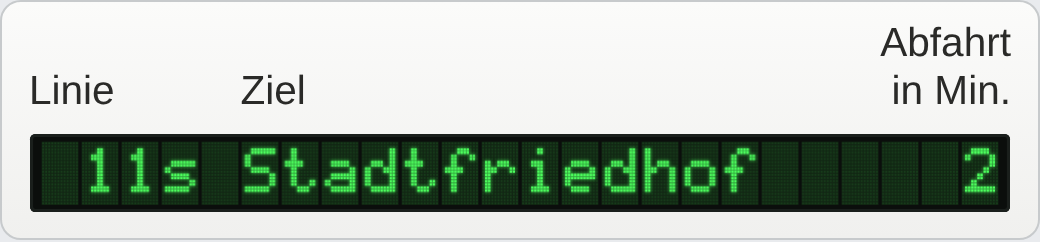
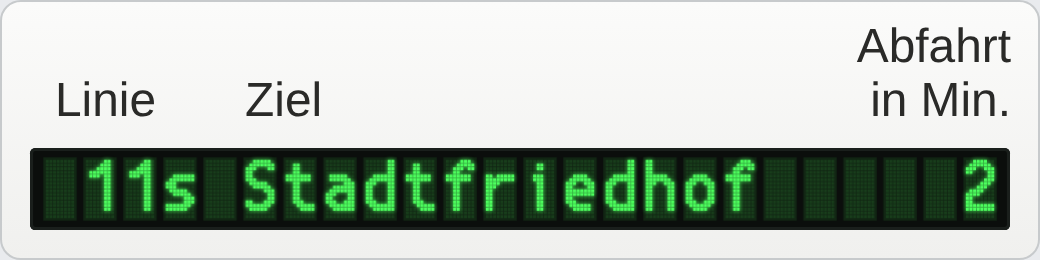
v2.1: Haltestellen-Säule mit 8x16-LED-Schrift wie am Original
- Jedes Feld 8 x 16 LED-Plättchen (statt 12 x 20 mit 5x7-Schrift)
- Neue LED-Schrift nach Foto der echten Anzeige: Striche 2 Plättchen dick,
  weiche Schrägen, Großbuchstaben/Ziffern 14 Plättchen hoch, Unterlängen
- 94 Zeichen inkl. Ä Ö Ü ß und / * ( ) & ? % ' " = < > | _ ; # @ °
- Durchstreichen bei Ausfall auf Zeichenmitte angepasst
- Bilder in der Beschreibung neu erstellt

Claude-Session: https://claude.ai/code/session_01UGasuBwGSLjhjSTvDMnsjH

diff --git a/custom_components/linz_ag_monitor/frontend/linz-linien-combined.js b/custom_components/linz_ag_monitor/frontend/linz-linien-combined.js
@@ -53,117 +53,118 @@ const LINZ_ASSET_BASE = (() => {
 
 // LED-Raster der Haltestellen-Säule: 24 Zeichen, Zeichenfeld 10 x 16 Punkte, Glyphe 8 x 14 Punkte
 const STELE_COLS = 24;
-const STELE_DOT = 2;                  // 1 Schrift-Punkt = 2 x 2 LED-Punkte ("doppelte Punkte")
-const STELE_PIX_W = 12;               // ein Kästchen hat 12 x 20 Pixel (wie an der echten Anzeige)
-const STELE_PIX_H = 20;
-const STELE_CELL_GAP = 1;             // dunkle Fuge zwischen den Kästchen (in Pixeln)
+const STELE_PIX_W = 8;                // ein Feld hat 8 x 16 LED-Plättchen (wie an der echten Anzeige)
+const STELE_PIX_H = 16;
+const STELE_CELL_GAP = 3;             // dunkle Fuge zwischen den Feldern (in Plättchen)
 const STELE_CELL_W = STELE_PIX_W + STELE_CELL_GAP;
 const STELE_CELL_H = STELE_PIX_H + STELE_CELL_GAP;
-const STELE_GLYPH_X = 1;              // Schrift (5x8 x 2 = 10 x 16 Pixel) im Kästchen: 1 Pixel Rand links
-const STELE_GLYPH_Y = 2;              // 2 Pixel Rand oben
+const STELE_PANEL = 0.6;              // das Feld ist etwas größer als die Plättchen-Matrix
+const STELE_STRIKE_ROW = 7;           // Durchstreichen: Zeile 7-8 (Höhe der Zeichenmitte)
 const STELE_MIN_W = 3;                // Abfahrtsminuten: Feld 22-24
-const STELE_DOT_ASPECT = 1;           // 1 = quadratische LED-Punkte (größer = höhere, schlankere Zeichen)
+const STELE_DOT_ASPECT = 1;           // 1 = quadratische LED-Plättchen
 // Aussehen der LED-Anzeige:
-//   mode     "full" = jeder Schrift-Punkt als 2x2 feine Punkte, "thinH" = waagrechte Striche 1 Punkt,
-//            "led" = ein großes LED pro Schrift-Punkt
-//   fill     Größe der leuchtenden Punkte (0-1, kleiner = mehr Abstand)
-//   grid     Helligkeit der unbeleuchteten Pixel im Hintergrund (0 = aus)
-//   gridMode Raster im Hintergrund ("led" = ein großes Feld pro Schrift-Punkt, sonst wie mode)
-//   gridFill Größe der Hintergrund-Pixel
+//   fill     Größe der leuchtenden Plättchen (0-1, kleiner = mehr Abstand)
+//   grid     Helligkeit der unbeleuchteten Plättchen (0 = aus)
+//   gridFill Größe der unbeleuchteten Plättchen
 //   glow     Stärke des Leuchtens um die Schrift
-const STELE_LOOK = { mode: "full", fill: 0.76, grid: 0.11, gridMode: "full", gridFill: 0.60, glow: 1.2 };
-// 5x8-LED-Schrift wie an der echten Anzeige (Zeile 0-6 Zeichen, Zeile 7 Unterlänge).
-// Jede Zeile = 5 Bits (links = höchstes Bit). Jeder Schrift-Punkt wird als 2x2 feine LED-Punkte gezeichnet.
+const STELE_LOOK = { fill: 0.80, grid: 0.11, gridFill: 0.80, glow: 1.2 };
+// 8x16-LED-Schrift wie an der echten Anzeige: 16 Zeilen je Zeichen, jede Zeile = 8 Bits (links = höchstes Bit).
+// Striche 2 Pixel dick, Schrägen in Einzelschritten; Großbuchstaben/Ziffern 14 Zeilen hoch, Zeile 14-15 Unterlänge.
 const STELE_FONT = {
-  "0": [14,17,19,21,25,17,14,0],
-  "1": [4,12,4,4,4,4,14,0],
-  "2": [14,17,1,2,4,8,31,0],
-  "3": [31,2,4,2,1,17,14,0],
-  "4": [2,6,10,18,31,2,2,0],
-  "5": [31,16,30,1,1,17,14,0],
-  "6": [6,8,16,30,17,17,14,0],
-  "7": [31,1,2,4,8,8,8,0],
-  "8": [14,17,17,14,17,17,14,0],
-  "9": [14,17,17,15,1,2,12,0],
-  "A": [14,17,17,17,31,17,17,0],
-  "B": [30,17,17,30,17,17,30,0],
-  "C": [14,17,16,16,16,17,14,0],
-  "D": [28,18,17,17,17,18,28,0],
-  "E": [31,16,16,30,16,16,31,0],
-  "F": [31,16,16,30,16,16,16,0],
-  "G": [14,17,16,23,17,17,15,0],
-  "H": [17,17,17,31,17,17,17,0],
-  "I": [14,4,4,4,4,4,14,0],
-  "J": [7,2,2,2,2,18,12,0],
-  "K": [17,18,20,24,20,18,17,0],
-  "L": [16,16,16,16,16,16,31,0],
-  "M": [17,27,21,21,17,17,17,0],
-  "N": [17,17,25,21,19,17,17,0],
-  "O": [14,17,17,17,17,17,14,0],
-  "P": [30,17,17,30,16,16,16,0],
-  "Q": [14,17,17,17,21,18,13,0],
-  "R": [30,17,17,30,20,18,17,0],
-  "S": [15,16,16,14,1,1,30,0],
-  "T": [31,4,4,4,4,4,4,0],
-  "U": [17,17,17,17,17,17,14,0],
-  "V": [17,17,17,17,17,10,4,0],
-  "W": [17,17,17,21,21,21,10,0],
-  "X": [17,17,10,4,10,17,17,0],
-  "Y": [17,17,10,4,4,4,4,0],
-  "Z": [31,1,2,4,8,16,31,0],
-  "Ä": [10,0,14,17,31,17,17,0],
-  "Ö": [10,0,14,17,17,17,14,0],
-  "Ü": [10,0,17,17,17,17,14,0],
-  "a": [0,0,14,1,15,17,15,0],
-  "b": [16,16,22,25,17,17,30,0],
-  "c": [0,0,14,16,16,17,14,0],
-  "d": [1,1,13,19,17,17,15,0],
-  "e": [0,0,14,17,31,16,14,0],
-  "f": [6,9,8,28,8,8,8,0],
-  "g": [0,0,15,17,17,15,1,14],
-  "h": [16,16,22,25,17,17,17,0],
-  "i": [4,0,12,4,4,4,14,0],
-  "j": [2,0,6,2,2,2,18,12],
-  "k": [16,16,18,20,24,20,18,0],
-  "l": [12,4,4,4,4,4,14,0],
-  "m": [0,0,26,21,21,21,21,0],
-  "n": [0,0,22,25,17,17,17,0],
-  "o": [0,0,14,17,17,17,14,0],
-  "p": [0,0,30,17,17,30,16,16],
-  "q": [0,0,15,17,17,15,1,1],
-  "r": [0,0,22,25,16,16,16,0],
-  "s": [0,0,15,16,14,1,30,0],
-  "t": [8,8,28,8,8,9,6,0],
-  "u": [0,0,17,17,17,19,13,0],
-  "v": [0,0,17,17,17,10,4,0],
-  "w": [0,0,17,17,21,21,10,0],
-  "x": [0,0,17,10,4,10,17,0],
-  "y": [0,0,17,17,17,15,1,14],
-  "z": [0,0,31,2,4,8,31,0],
-  "ä": [10,0,14,1,15,17,15,0],
-  "ö": [10,0,14,17,17,17,14,0],
-  "ü": [10,0,17,17,17,19,13,0],
-  "ß": [12,18,18,20,18,17,22,0],
-  ".": [0,0,0,0,0,12,12,0],
-  ",": [0,0,0,0,0,12,4,8],
-  "-": [0,0,0,31,0,0,0,0],
-  "+": [0,4,4,31,4,4,0,0],
-  "*": [0,4,21,14,21,4,0,0],
-  "/": [1,2,2,4,8,8,16,0],
-  ":": [0,12,12,0,12,12,0,0],
-  "(": [2,4,8,8,8,4,2,0],
-  ")": [8,4,2,2,2,4,8,0],
-  "&": [12,18,20,8,21,18,13,0],
-  "'": [4,4,8,0,0,0,0,0],
-  "\"": [10,10,0,0,0,0,0,0],
-  "!": [4,4,4,4,4,0,4,0],
-  "?": [14,17,1,2,4,0,4,0],
-  "|": [4,4,4,4,4,4,4,0],
-  "<": [2,4,8,16,8,4,2,0],
-  ">": [8,4,2,1,2,4,8,0],
-  "=": [0,0,31,0,31,0,0,0],
-  "%": [24,25,2,4,8,19,3,0],
-  "■": [0,0,14,14,14,0,0,0],     // kleiner gefüllter Block (blinkt bei Abfahrt "jetzt")
+  "0": [60,126,231,195,195,195,195,195,195,195,195,231,126,60,0,0],
+  "1": [6,14,30,126,118,6,6,6,6,6,6,6,6,6,0,0],
+  "2": [60,126,231,195,3,7,14,28,120,240,192,192,255,255,0,0],
+  "3": [60,126,231,195,3,7,62,62,7,3,195,231,126,60,0,0],
+  "4": [6,14,14,30,62,54,118,102,255,255,6,6,6,6,0,0],
+  "5": [255,255,192,192,192,252,254,7,3,3,195,231,126,60,0,0],
+  "6": [30,62,112,224,192,192,252,254,199,195,195,231,126,60,0,0],
+  "7": [255,255,3,7,6,14,28,24,56,48,48,48,48,48,0,0],
+  "8": [60,126,231,195,195,231,126,126,231,195,195,231,126,60,0,0],
+  "9": [60,126,231,195,195,227,127,63,3,3,7,14,124,120,0,0],
+  "A": [24,60,126,231,195,195,195,255,255,195,195,195,195,195,0,0],
+  "B": [252,254,199,195,195,199,254,254,199,195,195,199,254,252,0,0],
+  "C": [62,127,227,192,192,192,192,192,192,192,192,227,127,62,0,0],
+  "D": [248,252,206,199,195,195,195,195,195,195,199,206,252,248,0,0],
+  "E": [255,255,192,192,192,192,254,254,192,192,192,192,255,255,0,0],
+  "F": [255,255,192,192,192,192,254,254,192,192,192,192,192,192,0,0],
+  "G": [62,127,227,192,192,192,192,223,223,195,195,227,127,63,0,0],
+  "H": [195,195,195,195,195,195,255,255,195,195,195,195,195,195,0,0],
+  "I": [126,126,24,24,24,24,24,24,24,24,24,24,126,126,0,0],
+  "J": [63,63,3,3,3,3,3,3,3,3,195,231,126,60,0,0],
+  "K": [195,199,206,220,216,248,240,240,248,220,204,206,199,195,0,0],
+  "L": [192,192,192,192,192,192,192,192,192,192,192,192,255,255,0,0],
+  "M": [231,255,255,255,219,219,219,219,219,195,195,195,195,195,0,0],
+  "N": [195,227,227,243,243,251,219,223,207,207,199,199,195,195,0,0],
+  "O": [60,126,231,195,195,195,195,195,195,195,195,231,126,60,0,0],
+  "P": [252,254,199,195,195,199,254,252,192,192,192,192,192,192,0,0],
+  "Q": [60,126,231,195,195,195,195,195,195,219,223,239,127,63,0,0],
+  "R": [252,254,199,195,195,199,254,252,206,199,195,195,195,195,0,0],
+  "S": [62,127,227,192,192,224,124,62,7,3,3,199,254,124,0,0],
+  "T": [255,255,24,24,24,24,24,24,24,24,24,24,24,24,0,0],
+  "U": [195,195,195,195,195,195,195,195,195,195,195,231,126,60,0,0],
+  "V": [195,195,195,195,195,195,195,227,103,118,62,60,28,24,0,0],
+  "W": [195,195,195,195,195,219,219,219,219,219,255,255,255,231,0,0],
+  "X": [195,195,195,231,126,60,60,60,126,102,231,195,195,195,0,0],
+  "Y": [195,195,195,195,231,126,60,24,24,24,24,24,24,24,0,0],
+  "Z": [255,255,3,7,14,12,28,56,112,96,224,192,255,255,0,0],
+  "Ä": [102,102,0,60,126,231,195,195,255,255,195,195,195,195,0,0],
+  "Ö": [102,102,0,60,126,231,195,195,195,195,195,231,126,60,0,0],
+  "Ü": [102,102,0,195,195,195,195,195,195,195,195,231,126,60,0,0],
+  "a": [0,0,0,0,124,126,7,63,127,227,195,231,127,63,0,0],
+  "b": [192,192,192,192,252,254,199,195,195,195,195,199,254,252,0,0],
+  "c": [0,0,0,0,63,127,224,192,192,192,192,224,127,63,0,0],
+  "d": [3,3,3,3,63,127,227,195,195,195,195,227,127,63,0,0],
+  "e": [0,0,0,0,60,126,231,195,255,255,192,224,126,62,0,0],
+  "f": [14,31,59,48,254,254,48,48,48,48,48,48,48,48,0,0],
+  "g": [0,0,0,0,63,127,227,195,195,195,227,127,63,3,255,254],
+  "h": [192,192,192,192,252,254,231,195,195,195,195,195,195,195,0,0],
+  "i": [0,24,24,0,56,56,24,24,24,24,24,24,24,24,0,0],
+  "j": [0,12,12,0,28,28,12,12,12,12,12,12,12,12,252,248],
+  "k": [192,192,192,192,199,207,220,248,240,248,220,206,199,195,0,0],
+  "l": [56,56,24,24,24,24,24,24,24,24,24,24,24,24,0,0],
+  "m": [0,0,0,0,254,255,219,219,219,219,219,219,219,219,0,0],
+  "n": [0,0,0,0,252,254,231,195,195,195,195,195,195,195,0,0],
+  "o": [0,0,0,0,60,126,231,195,195,195,195,231,126,60,0,0],
+  "p": [0,0,0,0,252,254,199,195,195,195,199,254,252,192,192,192],
+  "q": [0,0,0,0,63,127,227,195,195,195,227,127,63,3,3,3],
+  "r": [0,0,0,0,223,255,240,224,192,192,192,192,192,192,0,0],
+  "s": [0,0,0,0,63,127,224,224,124,62,7,7,254,252,0,0],
+  "t": [0,48,48,48,254,254,48,48,48,48,48,56,31,15,0,0],
+  "u": [0,0,0,0,195,195,195,195,195,195,195,231,127,63,0,0],
+  "v": [0,0,0,0,195,195,195,195,231,102,126,60,60,24,0,0],
+  "w": [0,0,0,0,195,195,195,219,219,219,219,255,127,126,0,0],
+  "x": [0,0,0,0,195,231,126,60,60,60,126,102,231,195,0,0],
+  "y": [0,0,0,0,195,195,195,195,195,195,227,127,63,3,255,254],
+  "z": [0,0,0,0,255,255,7,14,28,56,112,224,255,255,0,0],
+  "ä": [0,102,102,0,124,126,7,63,127,227,195,231,127,63,0,0],
+  "ö": [0,102,102,0,60,126,231,195,195,195,195,231,126,60,0,0],
+  "ü": [0,102,102,0,195,195,195,195,195,195,195,231,127,63,0,0],
+  "ß": [60,126,231,195,199,222,222,199,195,195,195,199,254,252,0,0],
+  ".": [0,0,0,0,0,0,0,0,0,0,0,0,24,24,0,0],
+  ",": [0,0,0,0,0,0,0,0,0,0,0,0,24,56,48,48],
+  "-": [0,0,0,0,0,0,126,126,0,0,0,0,0,0,0,0],
+  "+": [0,0,0,24,24,24,255,255,24,24,24,0,0,0,0,0],
+  "*": [0,0,24,219,255,126,60,126,255,219,24,0,0,0,0,0],
+  "/": [3,7,6,14,12,28,24,56,48,112,96,224,192,192,0,0],
+  ":": [0,0,0,24,24,0,0,0,0,0,24,24,0,0,0,0],
+  "(": [14,30,56,48,48,48,48,48,48,48,48,56,30,14,0,0],
+  ")": [112,120,28,12,12,12,12,12,12,12,12,28,120,112,0,0],
+  "&": [56,60,124,108,124,120,112,112,251,223,206,238,127,59,0,0],
+  "'": [24,24,24,24,24,0,0,0,0,0,0,0,0,0,0,0],
+  "!": [24,24,24,24,24,24,24,24,24,24,0,0,24,24,0,0],
+  "?": [60,126,231,195,3,7,14,28,24,24,0,0,24,24,0,0],
+  "|": [24,24,24,24,24,24,24,24,24,24,24,24,24,24,24,24],
+  "<": [0,0,6,14,28,56,112,112,56,28,14,6,0,0,0,0],
+  ">": [0,0,96,112,56,28,14,14,28,56,112,96,0,0,0,0],
+  "=": [0,0,0,0,255,255,0,0,255,255,0,0,0,0,0,0],
+  "%": [227,231,230,238,12,28,24,56,48,112,103,231,199,199,0,0],
+  "_": [0,0,0,0,0,0,0,0,0,0,0,0,0,0,255,255],
+  ";": [0,0,0,24,24,0,0,0,0,0,24,24,56,48,48,48],
+  "#": [0,60,60,60,255,255,60,60,255,255,60,60,60,0,0,0],
+  "@": [60,126,231,195,195,255,255,255,255,222,192,224,126,62,0,0],
+  "°": [60,60,60,60,0,0,0,0,0,0,0,0,0,0,0,0],
+  "\"": [102,102,102,102,102,0,0,0,0,0,0,0,0,0,0,0],
+  "■": [0,0,0,0,0,126,126,126,126,126,126,0,0,0,0,0],
 };
 
 // Kurznamen nur für die Haltestellen-Anzeige (DFI) – die anderen Designs schreiben aus
@@ -1417,7 +1418,7 @@ class LinzMonitorCombined extends HTMLElement {
             box-shadow: inset 0 0 0 0.3cqw #1a1f1c;
             padding: 0.6cqw 1.2%; box-sizing: border-box; line-height: 0;
           }
-          /* 24 Kästchen à 12 x 20 Pixel (+ Fuge) */
+          /* 24 Felder à 8 x 16 LED-Plättchen (+ Fuge) */
           .st-row canvas { display: block; width: 100%; aspect-ratio: ${(STELE_COLS * STELE_CELL_W) / (STELE_CELL_H * STELE_DOT_ASPECT)} / 1; }
 
           /* --- Fußbereich --- */
@@ -1615,9 +1616,10 @@ class LinzMonitorCombined extends HTMLElement {
     });
   }
 
-  /* Eine LED-Zeile zeichnen: 24 Zeichenfelder, 5x7-LED-Schrift, jeder Schrift-Punkt = 2x2 LED-Punkte */
+  /* Eine LED-Zeile zeichnen: 24 Felder mit je 8 x 16 LED-Plättchen, 8x16-LED-Schrift */
   _drawSteleRow(cv, text, LED, strike = []) {
-    const PX = STELE_CELL_W, PY = STELE_CELL_H, W = STELE_COLS * PX, H = PY, D = STELE_DOT;
+    const PX = STELE_CELL_W, PY = STELE_CELL_H, W = STELE_COLS * PX, H = PY;
+    const OX = STELE_CELL_GAP / 2, OY = STELE_CELL_GAP / 2;   // Plättchen-Matrix im Feld
 
     const m = /^#?([0-9a-f]{6})$/i.exec(String(LED).trim());
     let cellColor = "#132016";
@@ -1632,38 +1634,34 @@ class LinzMonitorCombined extends HTMLElement {
     if (cv.width !== cw || cv.height !== ch) { cv.width = cw; cv.height = ch; }
     const ctx = cv.getContext("2d");
     const dot = cw / W, dotY = dot * STELE_DOT_ASPECT;
-
-    // Hintergrund + dunkle Zeichenfelder (alle gleich groß)
     const look = STELE_LOOK;
+
+    // Hintergrund + dunkle Felder (alle gleich groß)
     ctx.fillStyle = "#0b0e0c";
     ctx.fillRect(0, 0, cw, ch);
     ctx.fillStyle = cellColor;
+    const pm = STELE_PANEL;
     for (let i = 0; i < STELE_COLS; i++) {
-      ctx.fillRect((i * PX + STELE_CELL_GAP / 2) * dot, (STELE_CELL_GAP / 2) * dotY, STELE_PIX_W * dot, STELE_PIX_H * dotY);
+      ctx.fillRect((i * PX + OX - pm) * dot, (OY - pm) * dotY, (STELE_PIX_W + 2 * pm) * dot, (STELE_PIX_H + 2 * pm) * dotY);
     }
-    const gapX = dot * (1 - look.fill) / 2, gapY = dotY * (1 - look.fill) / 2;
 
-    // unbeleuchtete Pixel des LED-Boards ganz leicht sichtbar
+    const plate = (x, y, f) => {
+      const gx = dot * (1 - f) / 2, gy = dotY * (1 - f) / 2;
+      ctx.rect(x * dot + gx, y * dotY + gy, dot - 2 * gx, dotY - 2 * gy);
+    };
+
+    // unbeleuchtete Plättchen ganz leicht sichtbar
     if (look.grid > 0) {
-      const gm = look.gridMode || look.mode, gf = look.gridFill ?? look.fill;
-      const ggX = dot * (1 - gf) / 2, ggY = dotY * (1 - gf) / 2;
       ctx.beginPath();
-      for (let i = 0; i < STELE_COLS; i++) {
-        // ganzes Kästchen: 12 x 20 Pixel
-        for (let r = 0; r < STELE_PIX_H; r++) for (let c = 0; c < STELE_PIX_W; c++) {
-          if (gm === "led" && (r % D || c % D)) continue;
-          const x = i * PX + STELE_CELL_GAP / 2 + c, y = STELE_CELL_GAP / 2 + r;
-          if (gm === "led") ctx.rect(x * dot + ggX * D, y * dotY + ggY * D, D * dot - 2 * ggX * D, D * dotY - 2 * ggY * D);
-          else ctx.rect(x * dot + ggX, y * dotY + ggY, dot - 2 * ggX, dotY - 2 * ggY);
-        }
-      }
+      for (let i = 0; i < STELE_COLS; i++)
+        for (let r = 0; r < STELE_PIX_H; r++) for (let c = 0; c < STELE_PIX_W; c++) plate(i * PX + OX + c, OY + r, look.gridFill);
       ctx.fillStyle = LED;
       ctx.globalAlpha = look.grid;
       ctx.fill();
       ctx.globalAlpha = 1;
     }
 
-    // leuchtende Punkte
+    // leuchtende Plättchen
     ctx.beginPath();
     Array.from(text).slice(0, STELE_COLS).forEach((c, i) => {
       let g = STELE_FONT[c];
@@ -1672,32 +1670,16 @@ class LinzMonitorCombined extends HTMLElement {
         g = STELE_FONT[plain] || STELE_FONT[plain.toUpperCase()] || null;
       }
       if (!g) return;
-      const on = (r, col) => r >= 0 && r < 8 && col >= 0 && col < 5 && !!(g[r] & (16 >> col));
-      for (let r = 0; r < 8; r++) {
-        for (let col = 0; col < 5; col++) {
-          if (!on(r, col)) continue;
-          const x0 = i * PX + STELE_CELL_GAP / 2 + STELE_GLYPH_X + col * D, y0 = STELE_CELL_GAP / 2 + STELE_GLYPH_Y + r * D;
-          if (look.mode === "led") {            // ein großes LED pro Schrift-Punkt
-            ctx.rect(x0 * dot + gapX * D, y0 * dotY + gapY * D, D * dot - 2 * gapX * D, D * dotY - 2 * gapY * D);
-            continue;
-          }
-          for (let dy = 0; dy < D; dy++) for (let dx = 0; dx < D; dx++) {
-            // "thinH": waagrechte Striche nur 1 Punkt hoch, senkrechte bleiben durchgehend
-            if (look.mode === "thinH" && dy > 0 && !on(r + 1, col)) continue;
-            const x = x0 + dx, y = y0 + dy;
-            ctx.rect(x * dot + gapX, y * dotY + gapY, dot - 2 * gapX, dotY - 2 * gapY);
-          }
-        }
+      for (let r = 0; r < STELE_PIX_H; r++) {
+        const bits = g[r];
+        if (!bits) continue;
+        for (let col = 0; col < STELE_PIX_W; col++) if (bits & (128 >> col)) plate(i * PX + OX + col, OY + r, look.fill);
       }
     });
-    // Durchstreichen (Ausfall): waagrechte Linie in Höhe der Zeichenmitte, über das ganze Kästchen
+    // Durchstreichen (Ausfall): waagrechte Linie (2 Plättchen) in Höhe der Zeichenmitte, über das ganze Feld
     for (const [from, to] of strike) {
-      for (let i = from; i < to; i++) {
-        for (let dy = 0; dy < D; dy++) for (let c = 0; c < STELE_PIX_W; c++) {
-          const x = i * PX + STELE_CELL_GAP / 2 + c, y = STELE_CELL_GAP / 2 + STELE_GLYPH_Y + 3 * D + dy;
-          ctx.rect(x * dot + gapX, y * dotY + gapY, dot - 2 * gapX, dotY - 2 * gapY);
-        }
-      }
+      for (let i = from; i < to; i++)
+        for (let dy = 0; dy < 2; dy++) for (let c = 0; c < STELE_PIX_W; c++) plate(i * PX + OX + c, OY + STELE_STRIKE_ROW + dy, look.fill);
     }
     ctx.fillStyle = LED;
     ctx.shadowColor = LED;

diff --git a/custom_components/linz_ag_monitor/__init__.py b/custom_components/linz_ag_monitor/__init__.py
@@ -8,7 +8,7 @@ from homeassistant.helpers import config_validation as cv
 
 DOMAIN = "linz_ag_monitor"
 PLATFORMS = ["sensor"]
-VERSION = "2.0.0"
+VERSION = "2.1.0"
 
 URL_BASE = "/linz_ag_monitor"
 CARD_FILE = "linz-linien-combined.js"

diff --git a/README.md b/README.md
@@ -1,7 +1,7 @@
 # 🚋 Linz Linien Abfahrtsmonitor
 
 [![hacs_badge](https://img.shields.io/badge/HACS-Custom-41BDF5.svg?style=for-the-badge)](https://github.com/hacs/integration)
-[![version](https://img.shields.io/badge/version-2.0-red.svg?style=for-the-badge)]()
+[![version](https://img.shields.io/badge/version-2.1-red.svg?style=for-the-badge)]()
 [![maintainer](https://img.shields.io/badge/maintainer-irmscher123-green.svg?style=for-the-badge)]()
 [!["Buy Me A Coffee"](https://www.buymeacoffee.com/assets/img/custom_images/orange_img.png)](https://www.buymeacoffee.com/irmscher)
 
@@ -72,7 +72,7 @@ Originalgetreuer Nachbau der Anzeige an den Linz AG Haltestellen – nur die Taf
 | 6–21 | Ziel bzw. Sonderinformation (16 Felder) | `Trauner Kreuzung` |
 | 22–24 | Abfahrt in Minuten (rechtsbündig, max. 99, bei „jetzt“ leer) | `5`, `12` |
 
-* **LED-Board wie am Original:** jedes Feld hat 12 × 20 Pixel, die unbeleuchteten Pixel schimmern leicht durch. Klassische 5 × 7-Punkt-Schrift, jeder Schrift-Punkt als 2 × 2 Pixel – inkl. Ä, Ö, Ü und ß. LED-Farbe frei wählbar.
+* **LED-Board wie am Original:** jedes Feld hat 8 × 16 LED-Plättchen, die unbeleuchteten Plättchen schimmern leicht durch. Eigene LED-Schrift nach dem Original: Striche 2 Plättchen dick, weiche Schrägen, Großbuchstaben und Ziffern 14 Plättchen hoch – inkl. Ä, Ö, Ü, ß und Sonderzeichen wie `/ * ( ) & ? %`. LED-Farbe frei wählbar.
 * **Abfahrt „jetzt“:** Das Minutenfeld bleibt leer, stattdessen blinkt vor dem Ziel ein kleiner Block – ohne Zusatztext.
 * **Laufschrift:** Ist ein Ziel länger als 16 Felder, läuft es Feld für Feld durch – mit kurzer Pause am Anfang und Ende, damit jedes Wort lesbar bleibt.
 * **Sonderinformationen** wie „Verspätung bitte Geduld“ wechseln sich mit dem Ziel ab und laufen als Laufschrift von rechts nach links durch.
